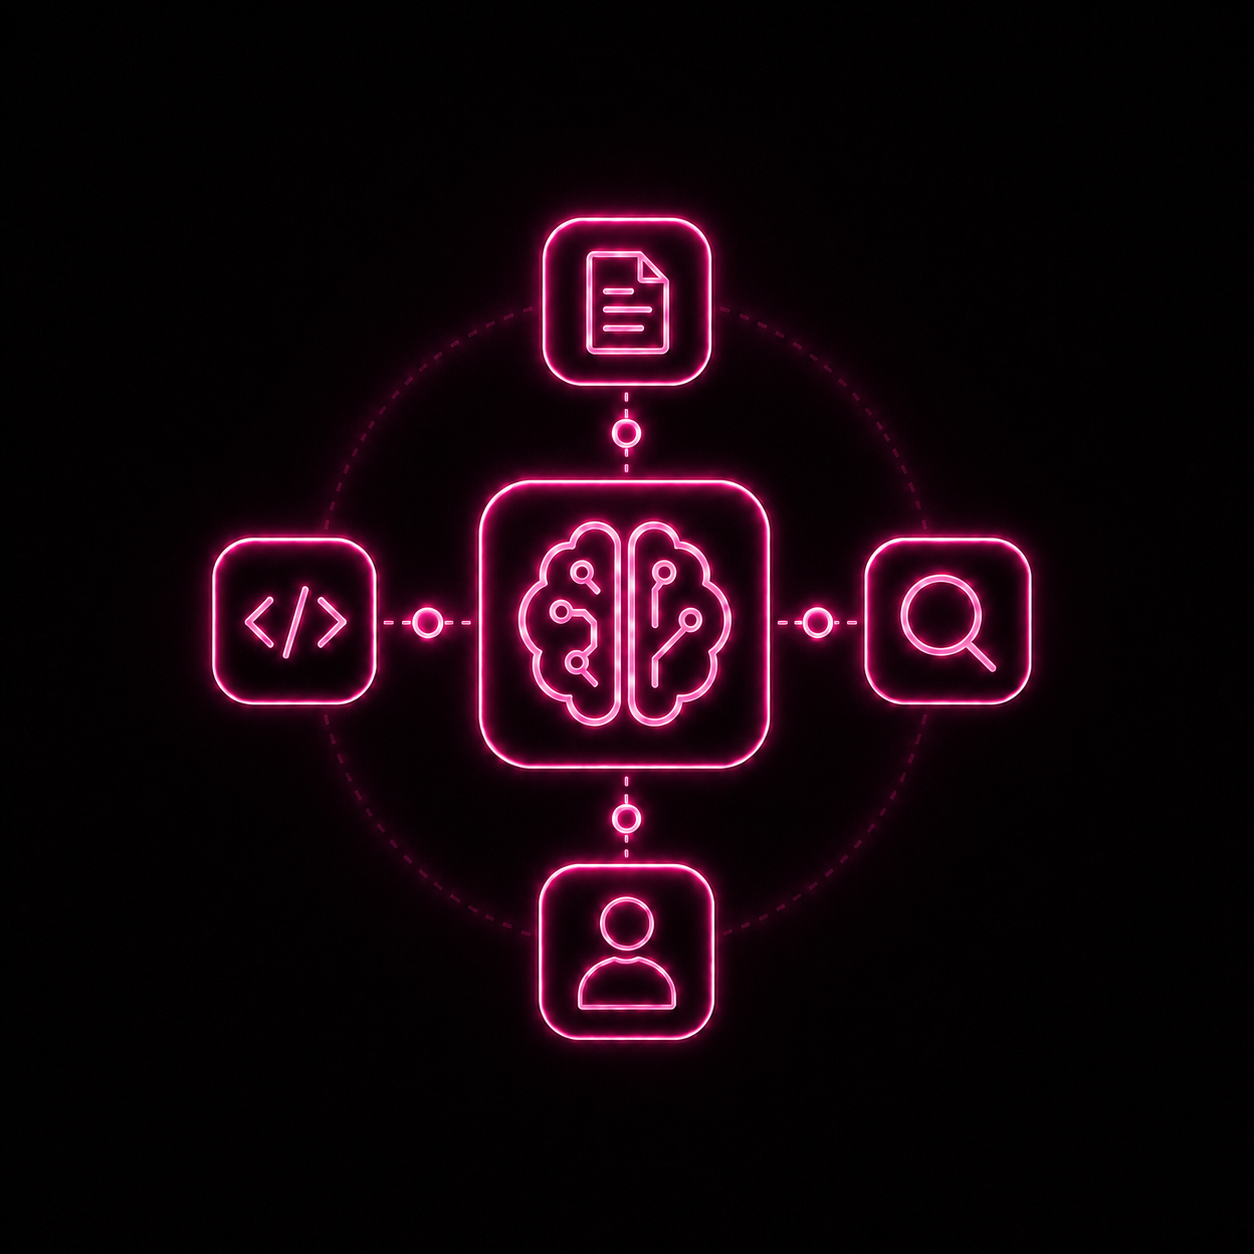
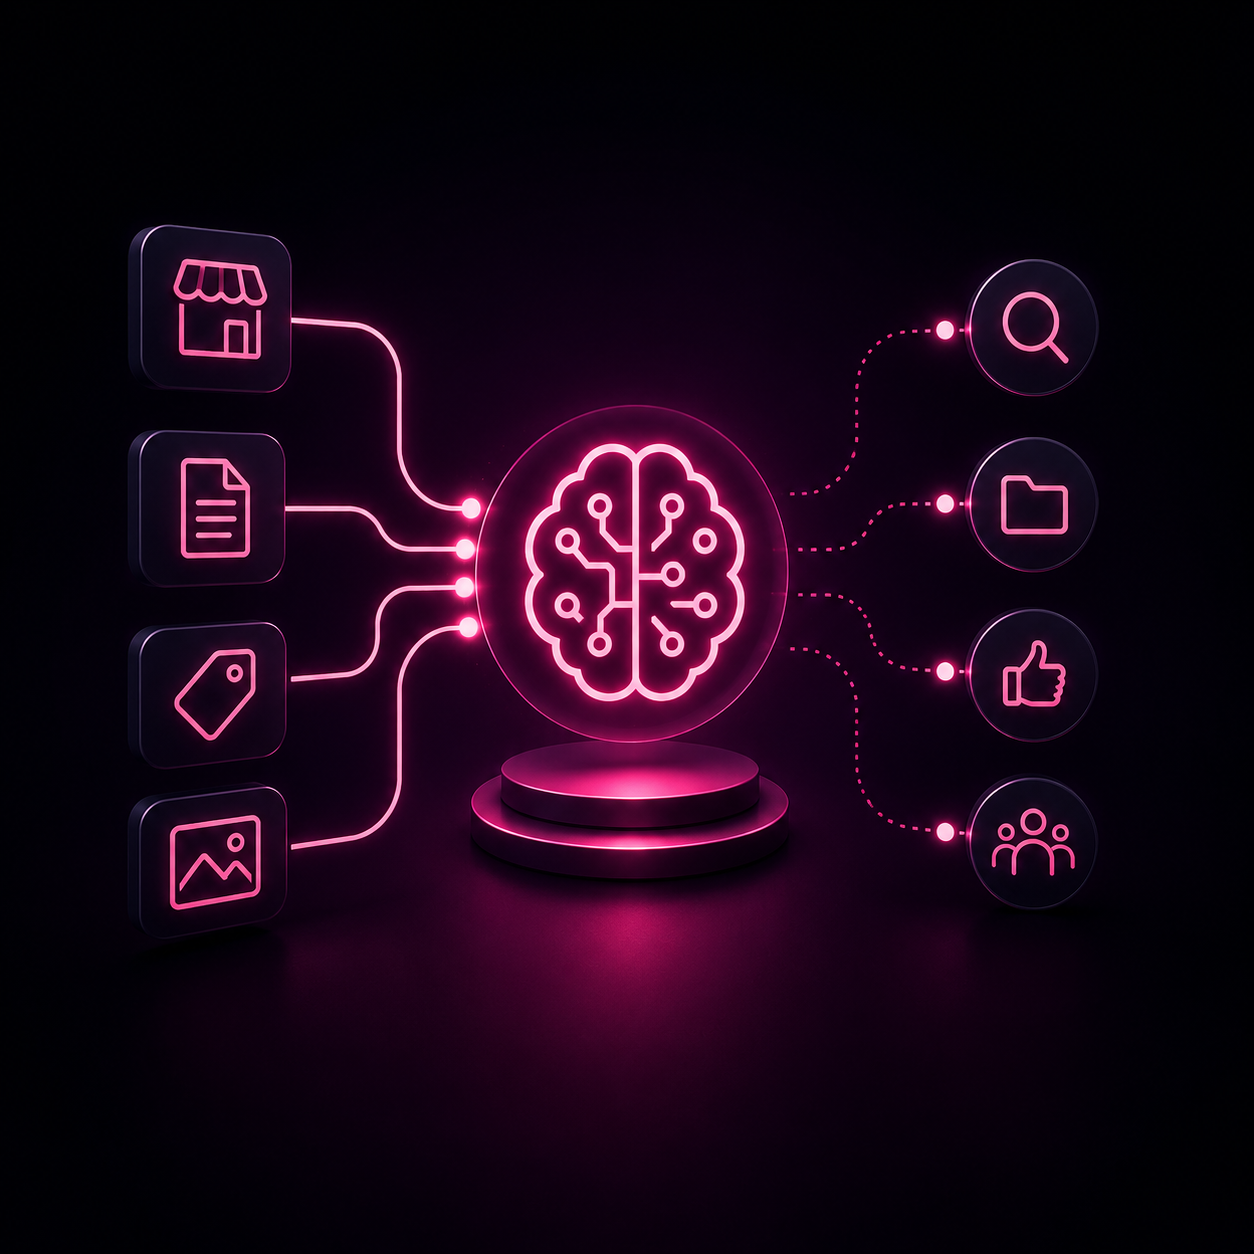
remove letterbox of case study section

diff --git a/components/site/home/HomePage.tsx b/components/site/home/HomePage.tsx
@@ -539,17 +539,16 @@ function CaseStudies() {
                 transition={{ duration: 0.45, delay: i * 0.06 }}
                 className="w-[82vw] shrink-0 sm:w-[300px]"
               >
-                <Card className="glass-card group flex h-[420px] flex-col overflow-hidden border-0 p-0">
+                <Card className="group flex h-[420px] flex-col overflow-hidden rounded-[var(--radius)] border border-border/40 bg-background p-0">
                   {/* Image — fills remaining space */}
-                  <div className="relative flex-1 overflow-hidden">
+                  <div className="relative flex-1 overflow-hidden bg-background">
                     <Image
                       src={c.image}
                       alt={c.title}
                       fill
-                      className="object-contain transition duration-500 group-hover:scale-105"
+                      className="object-contain object-top transition duration-500 group-hover:scale-105"
                     />
-                    <div className="absolute inset-0 bg-gradient-to-t from-card/70 via-transparent to-transparent" />
-                    <span className="absolute bottom-3 left-3 rounded border border-primary/70 bg-transparent px-2 py-0.5 text-[10px] font-semibold text-primary">
+                    <span className="absolute bottom-3 left-3 rounded border border-primary/70 bg-transparent px-2 py-0.5 text-[10px] font-semibold text-white">
                       {c.industry}
                     </span>
                   </div>